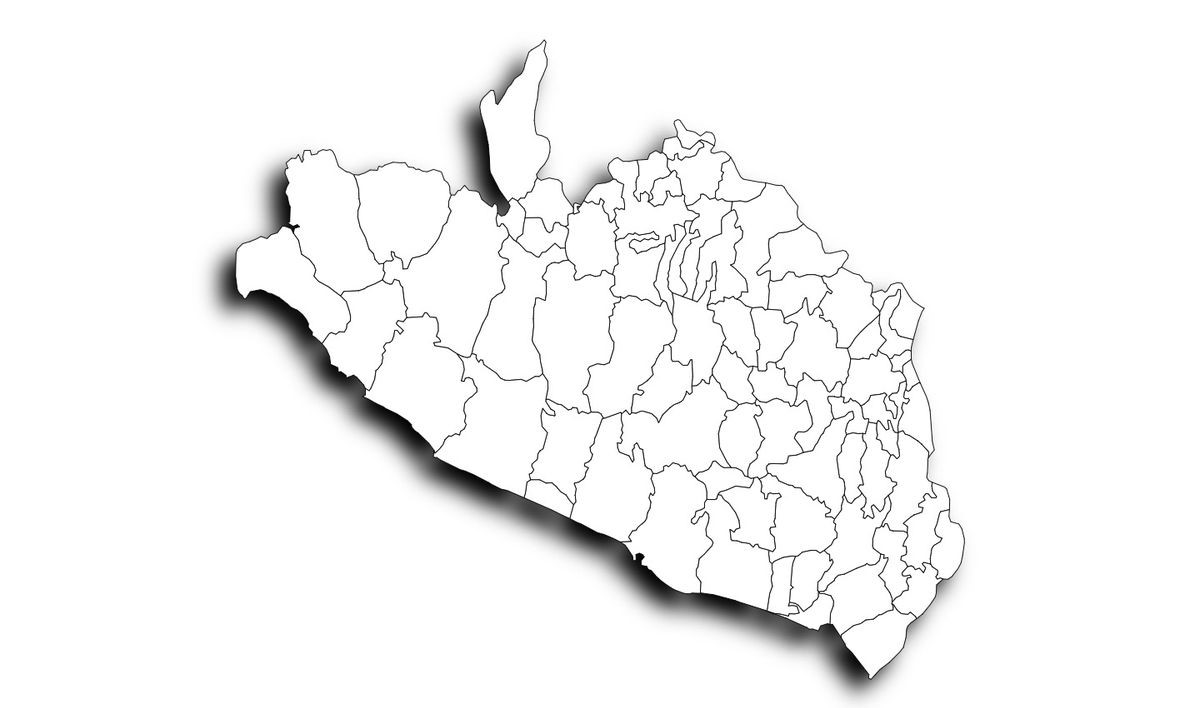
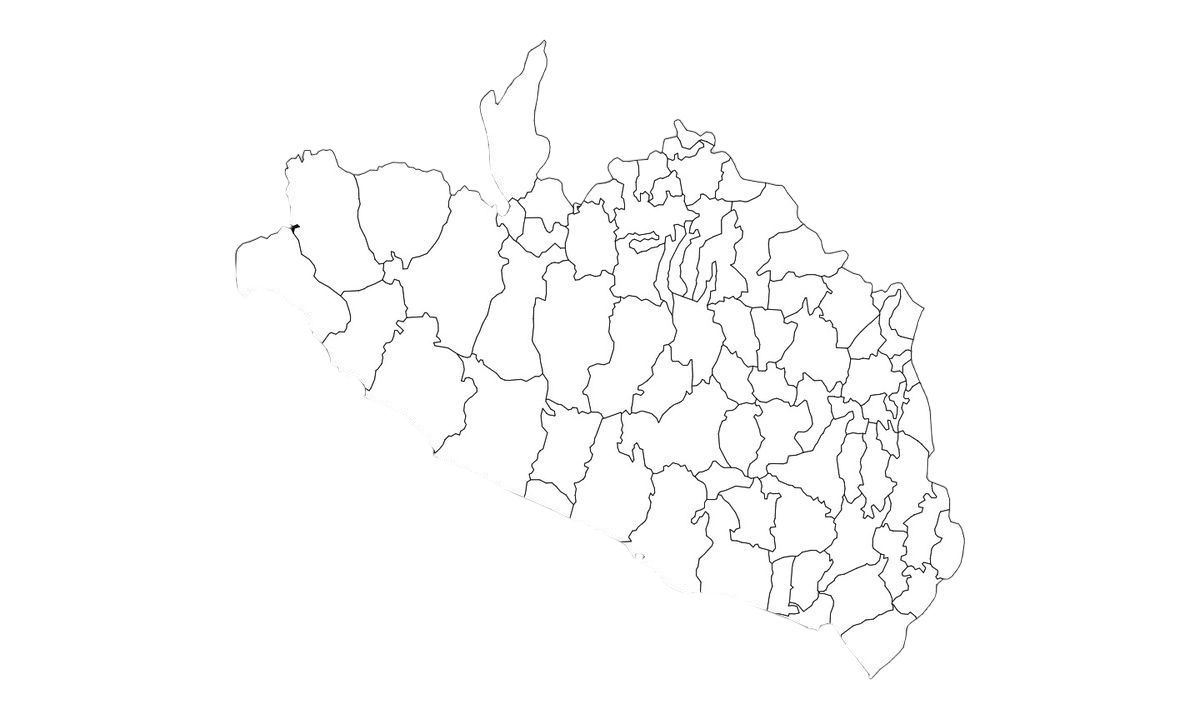
sistema listo

diff --git a/app/tarjetas/page.tsx b/app/tarjetas/page.tsx
@@ -831,8 +831,8 @@ export default function TarjetasPage() {
                   </div>
 
                   {/* Segundo foco: manifiesto comunitario */}
-                  <div
-  className="absolute bottom-[178px] left-[582px] right-[78px] z-30"
+   <div
+  className="absolute bottom-[205px] left-[582px] right-[82px] z-30"
   style={{
     transform: `translate(${tilt.x * 4}px, ${tilt.y * 2}px)`,
   }}
